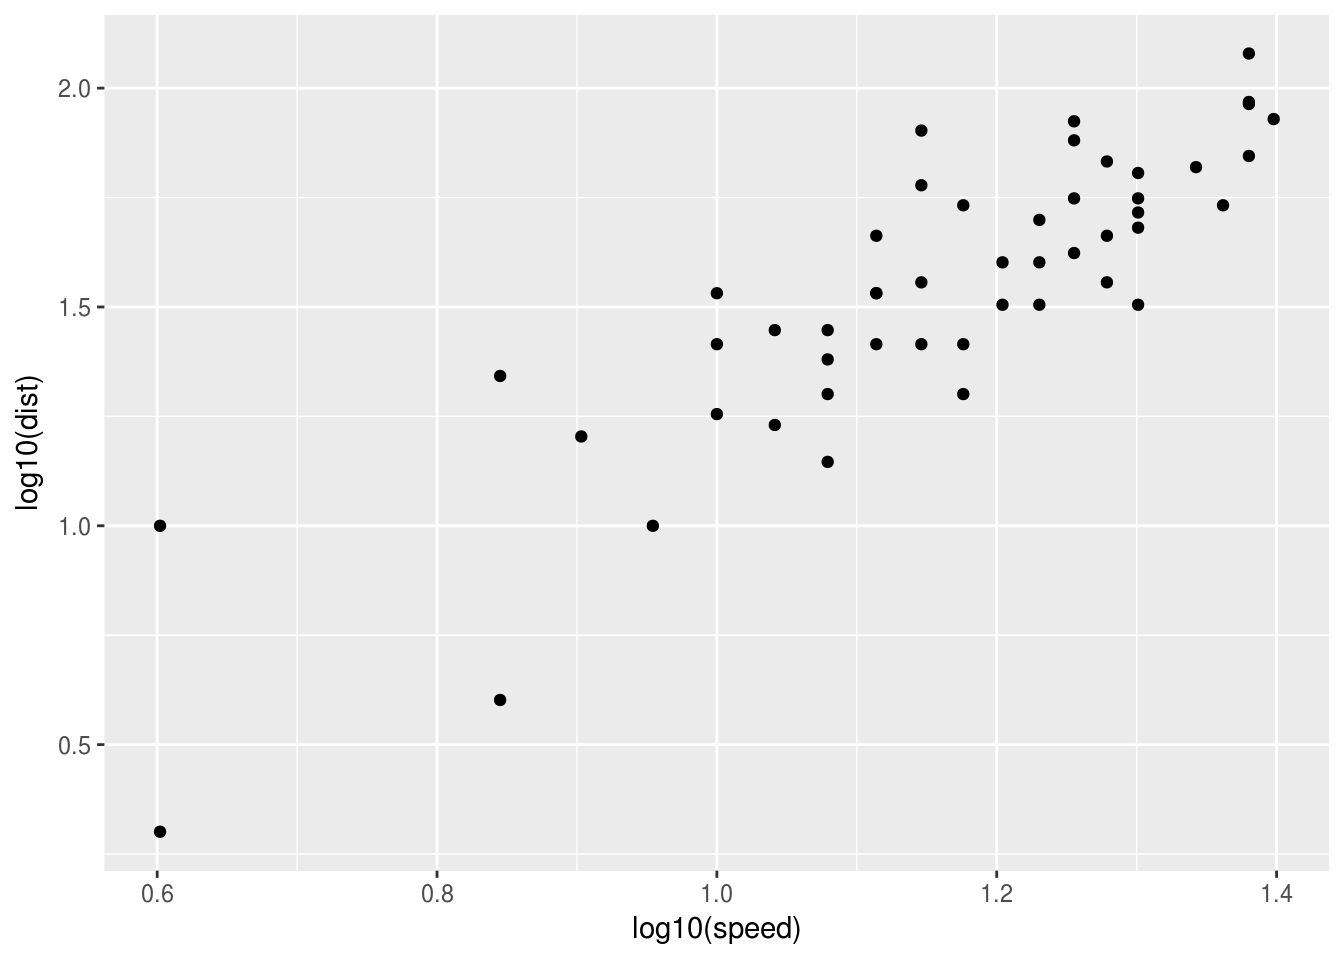
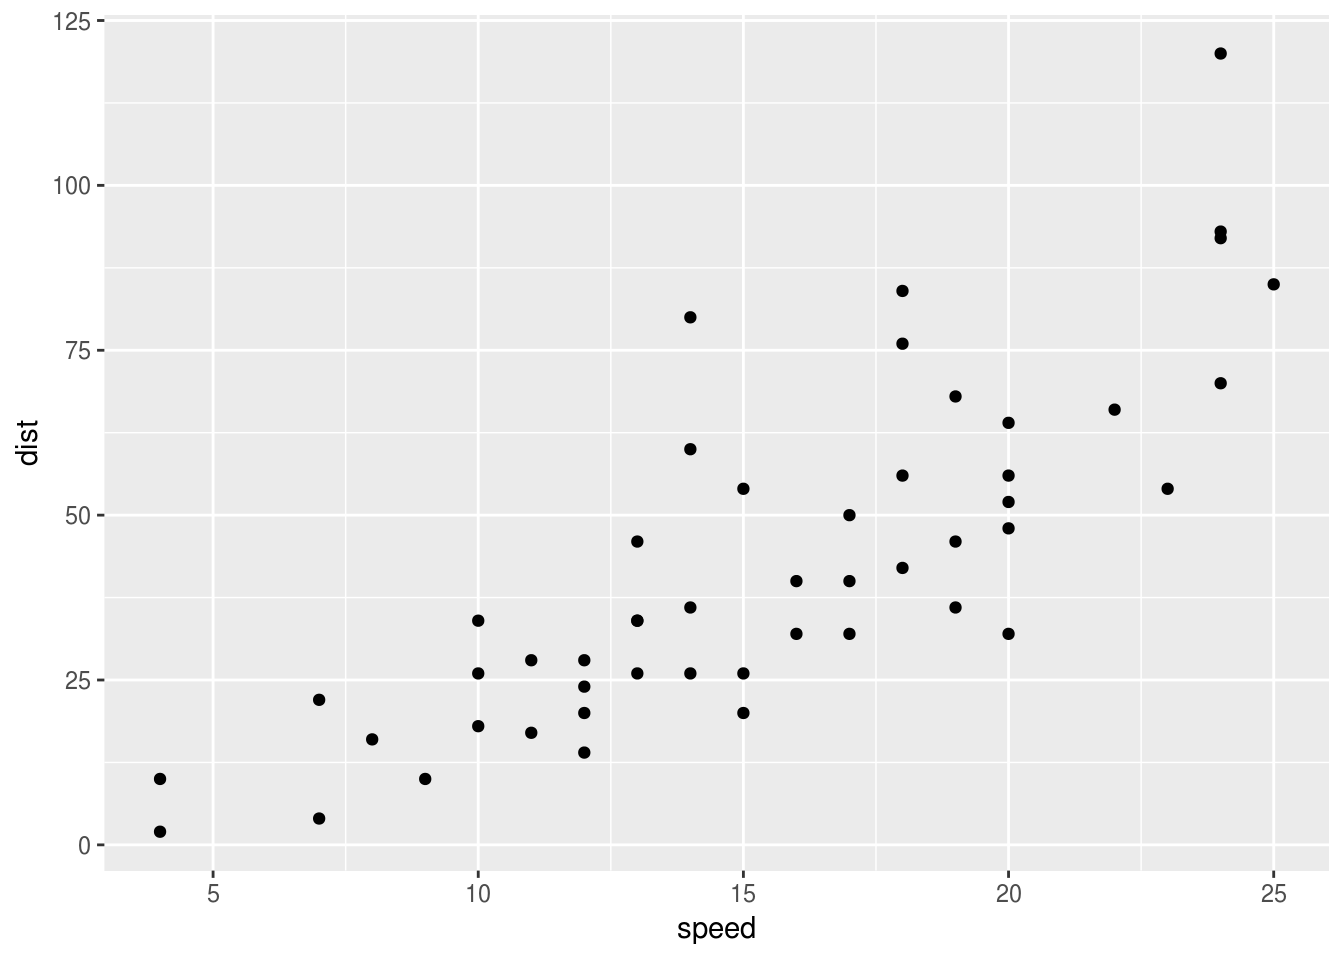
Update the book

diff --git a/graafilised-lahendused.html b/graafilised-lahendused.html
@@ -570,23 +570,22 @@ best_in_class &lt;-<span class="st"> </span>mpg <span class="op">%&gt;%</span>
 <div id="log-skaalas-teljed" class="section level3">
 <h3><span class="header-section-number">7.4.2</span> log skaalas teljed</h3>
 <ol style="list-style-type: decimal">
-<li>logaritmi andmed aes()-s</li>
+<li>lineaarsed andmed lineaarses skaalas</li>
 </ol>
-<div class="sourceCode"><pre class="sourceCode r"><code class="sourceCode r"><span class="kw">ggplot</span>(cars, <span class="kw">aes</span>(<span class="dt">x =</span> <span class="kw">log10</span>(speed), <span class="dt">y =</span> <span class="kw">log10</span>(dist))) <span class="op">+</span><span class="st"> </span><span class="kw">geom_point</span>()</code></pre></div>
-<p><img src="main_files/figure-html/unnamed-chunk-136-1.png" width="672" /></p>
-<p>Kahjuks on nüüd telgede tähistus log skaalas. Järgnev plot on identne, välja arvatud, et teljed on originaalses lineaarses skaalas</p>
-<div class="sourceCode"><pre class="sourceCode r"><code class="sourceCode r">  <span class="kw">ggplot</span>(cars, <span class="kw">aes</span>(<span class="dt">x =</span> speed, <span class="dt">y =</span> dist)) <span class="op">+</span><span class="st"> </span><span class="kw">geom_point</span>()<span class="op">+</span><span class="st"> </span><span class="kw">scale_x_log10</span>(<span class="dt">breaks=</span><span class="kw">seq</span>(<span class="dv">0</span>, <span class="dv">25</span>, <span class="dt">by=</span><span class="dv">5</span>)) <span class="op">+</span><span class="st"> </span>
-<span class="st">  </span><span class="kw">scale_y_log10</span>()</code></pre></div>
-<p><img src="main_files/figure-html/unnamed-chunk-137-1.png" width="672" /></p>
 <div class="sourceCode"><pre class="sourceCode r"><code class="sourceCode r"><span class="co">#data and scale are linear</span>
 (sp &lt;-<span class="st"> </span><span class="kw">ggplot</span>(cars, <span class="kw">aes</span>(<span class="dt">x =</span> speed, <span class="dt">y =</span> dist)) <span class="op">+</span><span class="st"> </span><span class="kw">geom_point</span>())</code></pre></div>
-<p><img src="main_files/figure-html/unnamed-chunk-138-1.png" width="672" /></p>
-<div class="sourceCode"><pre class="sourceCode r"><code class="sourceCode r"><span class="co">#data and scale are both logarithmic</span>
-sp <span class="op">+</span><span class="st"> </span><span class="kw">scale_x_continuous</span>(<span class="dt">trans=</span><span class="st">&#39;log2&#39;</span>) <span class="op">+</span><span class="st"> </span><span class="kw">scale_y_continuous</span>(<span class="dt">trans=</span><span class="st">&#39;log2&#39;</span>)</code></pre></div>
-<p><img src="main_files/figure-html/unnamed-chunk-138-2.png" width="672" /></p>
+<p><img src="main_files/figure-html/unnamed-chunk-136-1.png" width="672" /></p>
+<ol start="2" style="list-style-type: decimal">
+<li>logaritmi andmed aes()-s: andmed ja skaala on logaritmitud</li>
+</ol>
+<div class="sourceCode"><pre class="sourceCode r"><code class="sourceCode r"><span class="kw">ggplot</span>(cars, <span class="kw">aes</span>(<span class="dt">x =</span> <span class="kw">log2</span>(speed), <span class="dt">y =</span> <span class="kw">log2</span>(dist))) <span class="op">+</span><span class="st"> </span><span class="kw">geom_point</span>()</code></pre></div>
+<p><img src="main_files/figure-html/unnamed-chunk-137-1.png" width="672" /></p>
+<ol start="3" style="list-style-type: decimal">
+<li>Andmed on logaritmitud, aga skaala mitte</li>
+</ol>
 <div class="sourceCode"><pre class="sourceCode r"><code class="sourceCode r"><span class="co">#data is log transformed but the scale is linear</span>
 sp <span class="op">+</span><span class="st"> </span><span class="kw">coord_trans</span>(<span class="dt">x=</span><span class="st">&quot;log2&quot;</span>, <span class="dt">y=</span><span class="st">&quot;log2&quot;</span>) </code></pre></div>
-<p><img src="main_files/figure-html/unnamed-chunk-138-3.png" width="672" /></p>
+<p><img src="main_files/figure-html/unnamed-chunk-138-1.png" width="672" /></p>
 </div>
 <div id="muudame-telgede-markeeringuid" class="section level3">
 <h3><span class="header-section-number">7.4.3</span> Muudame telgede markeeringuid</h3>

diff --git a/obj.html b/obj.html
@@ -426,15 +426,15 @@ grandma &lt;-<span class="st"> &quot;your grandma on bongos&quot;</span>
 happy_list &lt;-<span class="st"> </span><span class="kw">list</span>(a, ab, model, grandma)
 happy_list</code></pre></div>
 <pre><code>## [[1]]
-## [1] 0.5387 0.5341 0.1694 0.1790 0.3066
+## [1] 0.006318 0.559797 0.173624 0.126153 0.573926
 ## 
 ## [[2]]
-##        a       b
-## 1 0.5387 -0.2978
-## 2 0.5341  0.9039
-## 3 0.1694  0.5817
-## 4 0.1790 -1.8790
-## 5 0.3066  0.5862
+##          a       b
+## 1 0.006318  1.1185
+## 2 0.559797 -0.1480
+## 3 0.173624  0.4482
+## 4 0.126153 -2.0605
+## 5 0.573926 -0.2640
 ## 
 ## [[3]]
 ## 
